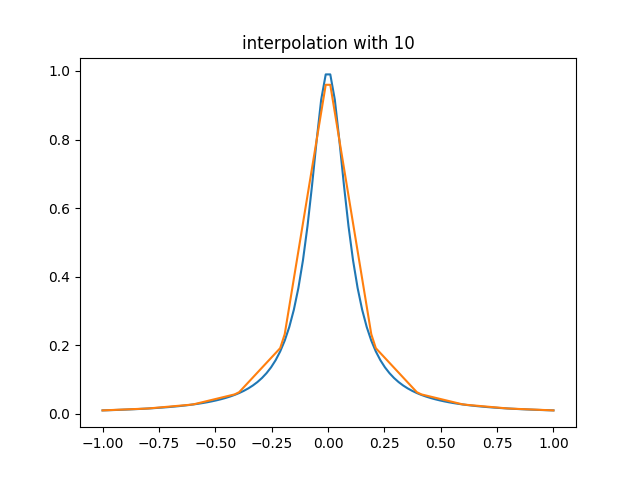
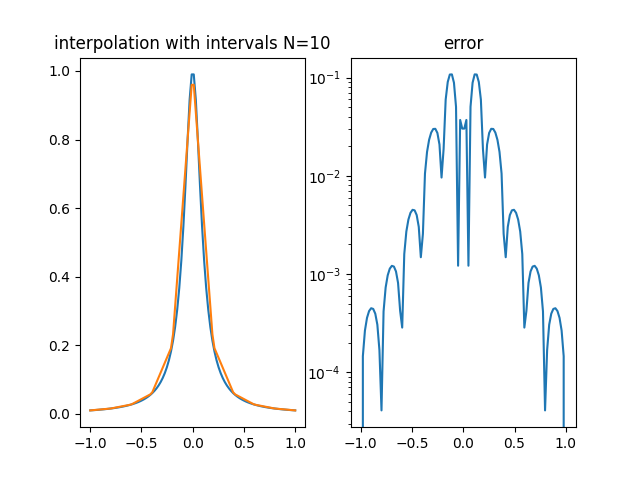
homework 8 initial work

diff --git a/interpolation/natural_spline.py b/interpolation/natural_spline.py
@@ -1,0 +1,64 @@
+from typing import Callable
+
+import numpy as np
+from matplotlib import pyplot as plt
+
+
+def get_sub_interval_indexes(a: float, b: float, points: []) -> []:
+    above = np.where(points >= a)[0]
+    below = np.where(points <= b)[0]
+    return list(set(above) & set(below))
+
+
+def line_through(x_0: float, x_1: float, f_0: float, f_1: float) -> [(float, float)]:
+    return lambda x: (f_1 - f_0) / (x_1 - x_0) * (x - x_0) + f_0
+
+
+def natural_spline(f: Callable, num_intervals: int, a: float, b: float,
+                   num_evaluation_pts: int, file_prefix: str = ''):
+    # create the intervals for piecewise approximations
+    x_intervals = np.linspace(a, b, num_intervals + 1)
+
+    # create vector to store the evaluation of the linear splines
+    y_interpolation_evaluations = np.zeros(num_evaluation_pts)
+
+    # create the points we want to sample at
+    x_evaluation_pts = np.linspace(a, b, num_evaluation_pts)
+
+    for i in range(num_intervals):
+        # find indices of x_evaluation_pts in interval (x_intervals(jint),x_intervals(jint+1))
+        # let ind denote the indices in the intervals
+        # let n denote the length of ind
+        interval_indices = get_sub_interval_indexes(x_intervals[i], x_intervals[i + 1], x_evaluation_pts)
+
+        # temporarily store your info for creating a line in the interval of interest
+        a1 = x_intervals[i]
+        fa1 = f(a1)
+        b1 = x_intervals[i + 1]
+        fb1 = f(b1)
+
+        line = line_through(a1, b1, fa1, fb1)
+        for kk in range(len(interval_indices)):
+            # use your line evaluator to evaluate the lines at each of the points in the interval
+            # yeval(ind(kk)) = call your line evaluator at xeval(ind(kk)) with the points (a1,fa1) and (b1,fb1)'''
+
+            y_interpolation_evaluations[interval_indices[kk]] = line(x_evaluation_pts[interval_indices[kk]])
+
+    # evaluate f at the evaluation points'''
+    f_exact = np.zeros(num_evaluation_pts)
+    for j in range(num_evaluation_pts):
+        f_exact[j] = f(x_evaluation_pts[j])
+
+    _, ax = plt.subplots(1, 2)
+    # plotting exact and interpolation
+    ax[0].plot(x_evaluation_pts, f_exact, label='exact')
+    ax[0].plot(x_evaluation_pts, y_interpolation_evaluations, label='interpolation')
+    ax[0].set_title(f'interpolation with intervals N={num_intervals}')
+
+    # plotting error
+    err = abs(y_interpolation_evaluations - f_exact)
+    ax[1].semilogy(x_evaluation_pts, err)
+    ax[1].set_title('error')
+
+    plt.savefig(f'{file_prefix}spline-interpolation.png')
+    return y_interpolation_evaluations

diff --git a/interpolation/monomial_basis.py b/interpolation/monomial_basis.py
@@ -4,21 +4,25 @@ import numpy as np
 from matplotlib import pyplot as plt
 
 
-def create_vandermonde(num_interpolation_nodes):
-
-    x = np.linspace(-1, 1, num_interpolation_nodes + 1)
-    vandermonde = np.zeros((num_interpolation_nodes + 1, num_interpolation_nodes + 1))
+def create_vandermonde(num_interpolation_nodes, x_interpolation_pts):
+    x_interpolation_pts = np.array(x_interpolation_pts)
+    vandermonde = np.zeros((len(x_interpolation_pts), len(x_interpolation_pts)))
     for j in range(0, num_interpolation_nodes + 1):
-        vandermonde[:, j] = x ** j
+        vandermonde[:, j] = x_interpolation_pts * 2 ** j
 
-    return vandermonde, x
+    return vandermonde, x_interpolation_pts
 
 
 def monomial_basis(f: Callable, num_interpolation_nodes: int, num_sample_pts: int,
-                   plot_save_show: str = None, file_prefix: str = ''):
+                   plot_save_show: str = None, file_prefix: str = '', special_x: [] = None):
+    if special_x is None:
+        # create equal-spaced interpolation nodes
+        x_interpolation_pts = np.linspace(-1, 1, num_interpolation_nodes + 1)
+    else:
+        x_interpolation_pts = special_x
 
     # Vandermonde matrix and interpolation points
-    vandermonde, x = create_vandermonde(num_interpolation_nodes)
+    vandermonde, x = create_vandermonde(num_interpolation_nodes, x_interpolation_pts)
 
     # sample the function for interpolation nodes
     f_at_x = f(x)
@@ -37,7 +41,7 @@ def monomial_basis(f: Callable, num_interpolation_nodes: int, num_sample_pts: in
     error = np.abs(v_with_num_sample @ coefficients - f_with_num_sample)
 
     if plot_save_show is not None:
-        fig, ax = plt.subplots(1, 2)
+        _, ax = plt.subplots(1, 2)
         ax[0].plot(x_with_num_sample, f_with_num_sample, 'o-')
         ax[0].plot(x_with_num_sample, v_with_num_sample @ coefficients, 'b--')
         ax[0].set_title('interpolation and function')

diff --git a/homework/homework8/problem1.py b/homework/homework8/problem1.py
@@ -1,0 +1,31 @@
+from interpolation import lagrange, natural_spline
+
+if __name__ == '__main__':
+    # function to interpolate
+    def f(x):
+        return 1 / (1 + x ** 2)
+
+    # how many points we want to evaluate at after creating our interpolation
+    NUM_SAMPLE_POINTS = 100
+    # number of intervals for the spline evaluations
+    NUM_INTERVALS = 20
+
+    NUM_INTERPOLATION_NODES = 5
+    lagrange(f, NUM_INTERPOLATION_NODES, -5, 5, NUM_SAMPLE_POINTS, file_prefix=f'prblm1-n-{NUM_INTERPOLATION_NODES}_')
+    natural_spline(f, NUM_INTERVALS, -5, 5, NUM_SAMPLE_POINTS,
+                   file_prefix=f'prblm1-n-{NUM_INTERPOLATION_NODES}_')
+
+    NUM_INTERPOLATION_NODES = 10
+    lagrange(f, NUM_INTERPOLATION_NODES, -5, 5, NUM_SAMPLE_POINTS, file_prefix=f'prblm1-n-{NUM_INTERPOLATION_NODES}_')
+    natural_spline(f, NUM_INTERVALS, -5, 5, NUM_SAMPLE_POINTS,
+                   file_prefix=f'prblm1-n-{NUM_INTERPOLATION_NODES}_')
+
+    NUM_INTERPOLATION_NODES = 15
+    lagrange(f, NUM_INTERPOLATION_NODES, -5, 5, NUM_SAMPLE_POINTS, file_prefix=f'prblm1-n-{NUM_INTERPOLATION_NODES}_')
+    natural_spline(f, NUM_INTERVALS, -5, 5, NUM_SAMPLE_POINTS,
+                   file_prefix=f'prblm1-n-{NUM_INTERPOLATION_NODES}_')
+
+    NUM_INTERPOLATION_NODES = 20
+    lagrange(f, NUM_INTERPOLATION_NODES, -5, 5, NUM_SAMPLE_POINTS, file_prefix=f'prblm1-n-{NUM_INTERPOLATION_NODES}_')
+    natural_spline(f, NUM_INTERVALS, -5, 5, NUM_SAMPLE_POINTS,
+                   file_prefix=f'prblm1-n-{NUM_INTERPOLATION_NODES}_')

diff --git a/interpolation/barycentric.py b/interpolation/barycentric.py
@@ -61,19 +61,16 @@ def barycentric(f: Callable, num_interpolation_nodes: int, a: int, b: int, num_s
     for i in range(num_sample_points + 1):
         f_exact[i] = f(x_interpolation_pts_eval[i])
 
+    _, ax = plt.subplots(1, 2)
     # plotting exact and interpolation
-    plt.plot(x_interpolation_pts_eval, f_exact, label='Exact')
-    plt.plot(x_interpolation_pts_eval, y_interpolation_pts_eval, 'rx', label='barycentric')
-    plt.legend(loc='upper right')
-    plt.title(f'Exact and Interpolated Plot with N={num_interpolation_nodes}')
-    plt.savefig(f'{file_prefix}barycentric-int-n-{num_interpolation_nodes}.png')
-    plt.cla()
+    ax[0].plot(x_interpolation_pts_eval, f_exact, label='Exact')
+    ax[0].plot(x_interpolation_pts_eval, y_interpolation_pts_eval, 'rx', label='barycentric')
+    ax[0].set_title(f'Exact and Interpolated Plot with N={num_interpolation_nodes}')
 
     # plotting error
     errors = abs(y_interpolation_pts_eval - f_exact)
-    plt.loglog(x_interpolation_pts_eval, errors)
-    plt.title('Error')
-    plt.savefig(f'{file_prefix}barycentric-error-n-{num_interpolation_nodes}.png')
-    plt.cla()
+    ax[1].semilogy(x_interpolation_pts_eval, errors)
+    ax[1].set_title('Error')
 
+    plt.savefig(f'{file_prefix}barycentric-n-{num_interpolation_nodes}.png')
     return y_interpolation_pts_eval, errors

diff --git a/labs/lab8_driver.py b/labs/lab8_driver.py
@@ -1,7 +1,6 @@
 import numpy as np
-from matplotlib import pyplot as plt
 
-from interpolation import eval_lin_spline
+from interpolation import natural_spline
 
 if __name__ == '__main__':
 
@@ -10,29 +9,12 @@ if __name__ == '__main__':
     a = -1
     b = 1
 
-    ''' create points you want to evaluate at'''
+    # create points you want to evaluate at
     Neval = 100
     xeval = np.linspace(a, b, Neval)
 
-    ''' number of intervals'''
+    # number of intervals
     Nint = 10
 
-    '''evaluate the linear spline'''
-    yeval = eval_lin_spline(xeval, Neval, a, b, f, Nint)
-
-    ''' evaluate f at the evaluation points'''
-    fex = np.zeros(Neval)
-    for j in range(Neval):
-        fex[j] = f(xeval[j])
-
-    plt.plot(xeval, fex, label='exact')
-    plt.plot(xeval, yeval, label='interpolation')
-    plt.title(f'interpolation with {Nint}')
-    plt.savefig('./plots/lab8/spline-interpolation.png')
-    plt.cla()
-
-    err = abs(yeval - fex)
-    plt.plot(xeval, err)
-    plt.title('error')
-    plt.savefig('./plots/lab8/spline-interpolation-error.png')
-    plt.cla()
+    # evaluate the linear spline
+    yeval = natural_spline(f, Nint, a, b, Neval, file_prefix='./plots/lab8/')

diff --git a/interpolation/lagrange.py b/interpolation/lagrange.py
@@ -58,17 +58,18 @@ def lagrange(f: Callable, num_interpolation_nodes: int, a: int, b: int, num_samp
     for kk in range(num_sample_pts + 1):
         f_at_x[kk] = f(x_evaluation_points[kk])
 
+    _, ax = plt.subplots(1, 2)
     # plot interpolation with exact
-    plt.plot(x_evaluation_points, f_at_x, 'o', label='exact')
-    plt.plot(x_evaluation_points, y_evaluation_points, 'rx', label='lagrange')
-    plt.legend(loc='upper right')
-    plt.savefig(f'{file_prefix}lagrange-int-n-{num_interpolation_nodes}')
-    plt.cla()
+    ax[0].plot(x_evaluation_points, f_at_x, label='exact')
+    ax[0].plot(x_evaluation_points, y_evaluation_points, 'rx', label='lagrange')
+    ax[0].set_title(f'Interpolation with N={num_interpolation_nodes}')
 
+    # plotting error
     err = abs(y_evaluation_points - f_at_x)
-    plt.title('Error')
-    plt.plot(x_evaluation_points, err)
-    plt.savefig(f'{file_prefix}lagrange-error-n-{num_interpolation_nodes}')
+    ax[1].set_title('Error')
+    ax[1].semilogy(x_evaluation_points, err)
+
+    plt.savefig(f'{file_prefix}lagrange-n-{num_interpolation_nodes}')
     plt.cla()
 
     return err

diff --git a/homework/homework7/problem3.py b/homework/homework7/problem3.py
@@ -1,10 +1,10 @@
 import math
 
-from interpolation import barycentric, lagrange
+from interpolation import monomial_basis
 
 if __name__ == '__main__':
     # set configuration
-    NUM_INTERPOLATION_NODES = 200
+    NUM_INTERPOLATION_NODES = 300
     NUM_SAMPLE_POINTS = 2_000
     A = -1
     B = 1
@@ -21,5 +21,7 @@ if __name__ == '__main__':
         return 1 / (1 + (10 * x) ** 2)
 
 
-    lagrange(f, NUM_INTERPOLATION_NODES, A, B, NUM_SAMPLE_POINTS, special_x=chebychev_pts, file_prefix='prblm3-')
-    barycentric(f, NUM_INTERPOLATION_NODES, A, B, NUM_SAMPLE_POINTS, special_x=chebychev_pts, file_prefix='prblm3-')
+    # lagrange(f, NUM_INTERPOLATION_NODES, A, B, NUM_SAMPLE_POINTS, special_x=chebychev_pts, file_prefix='prblm3-')
+    # barycentric(f, NUM_INTERPOLATION_NODES, A, B, NUM_SAMPLE_POINTS, special_x=chebychev_pts, file_prefix='prblm3-')
+    monomial_basis(f, NUM_INTERPOLATION_NODES, NUM_SAMPLE_POINTS, plot_save_show='save', special_x=chebychev_pts,
+                   file_prefix='prblm3-')

diff --git a/interpolation/__init__.py b/interpolation/__init__.py
@@ -1,7 +1,9 @@
 # import interpolation methods
 from interpolation.barycentric import barycentric
+from interpolation.cubic_spline import cubic_spline
+from interpolation.hermite import hermite
 from interpolation.lagrange import lagrange
 from interpolation.monomial_basis import monomial_basis
 from interpolation.monomial_basis import monomial_basis, create_vandermonde
+from interpolation.natural_spline import natural_spline
 from interpolation.newton_dd import newton_dd
-from interpolation.spline import eval_lin_spline

diff --git a/interpolation/cubic_spline.py b/interpolation/cubic_spline.py
@@ -1,0 +1,2 @@
+def cubic_spline():
+    raise NotImplemented

diff --git a/interpolation/hermite.py b/interpolation/hermite.py
@@ -1,0 +1,2 @@
+def hermite():
+    raise NotImplemented
